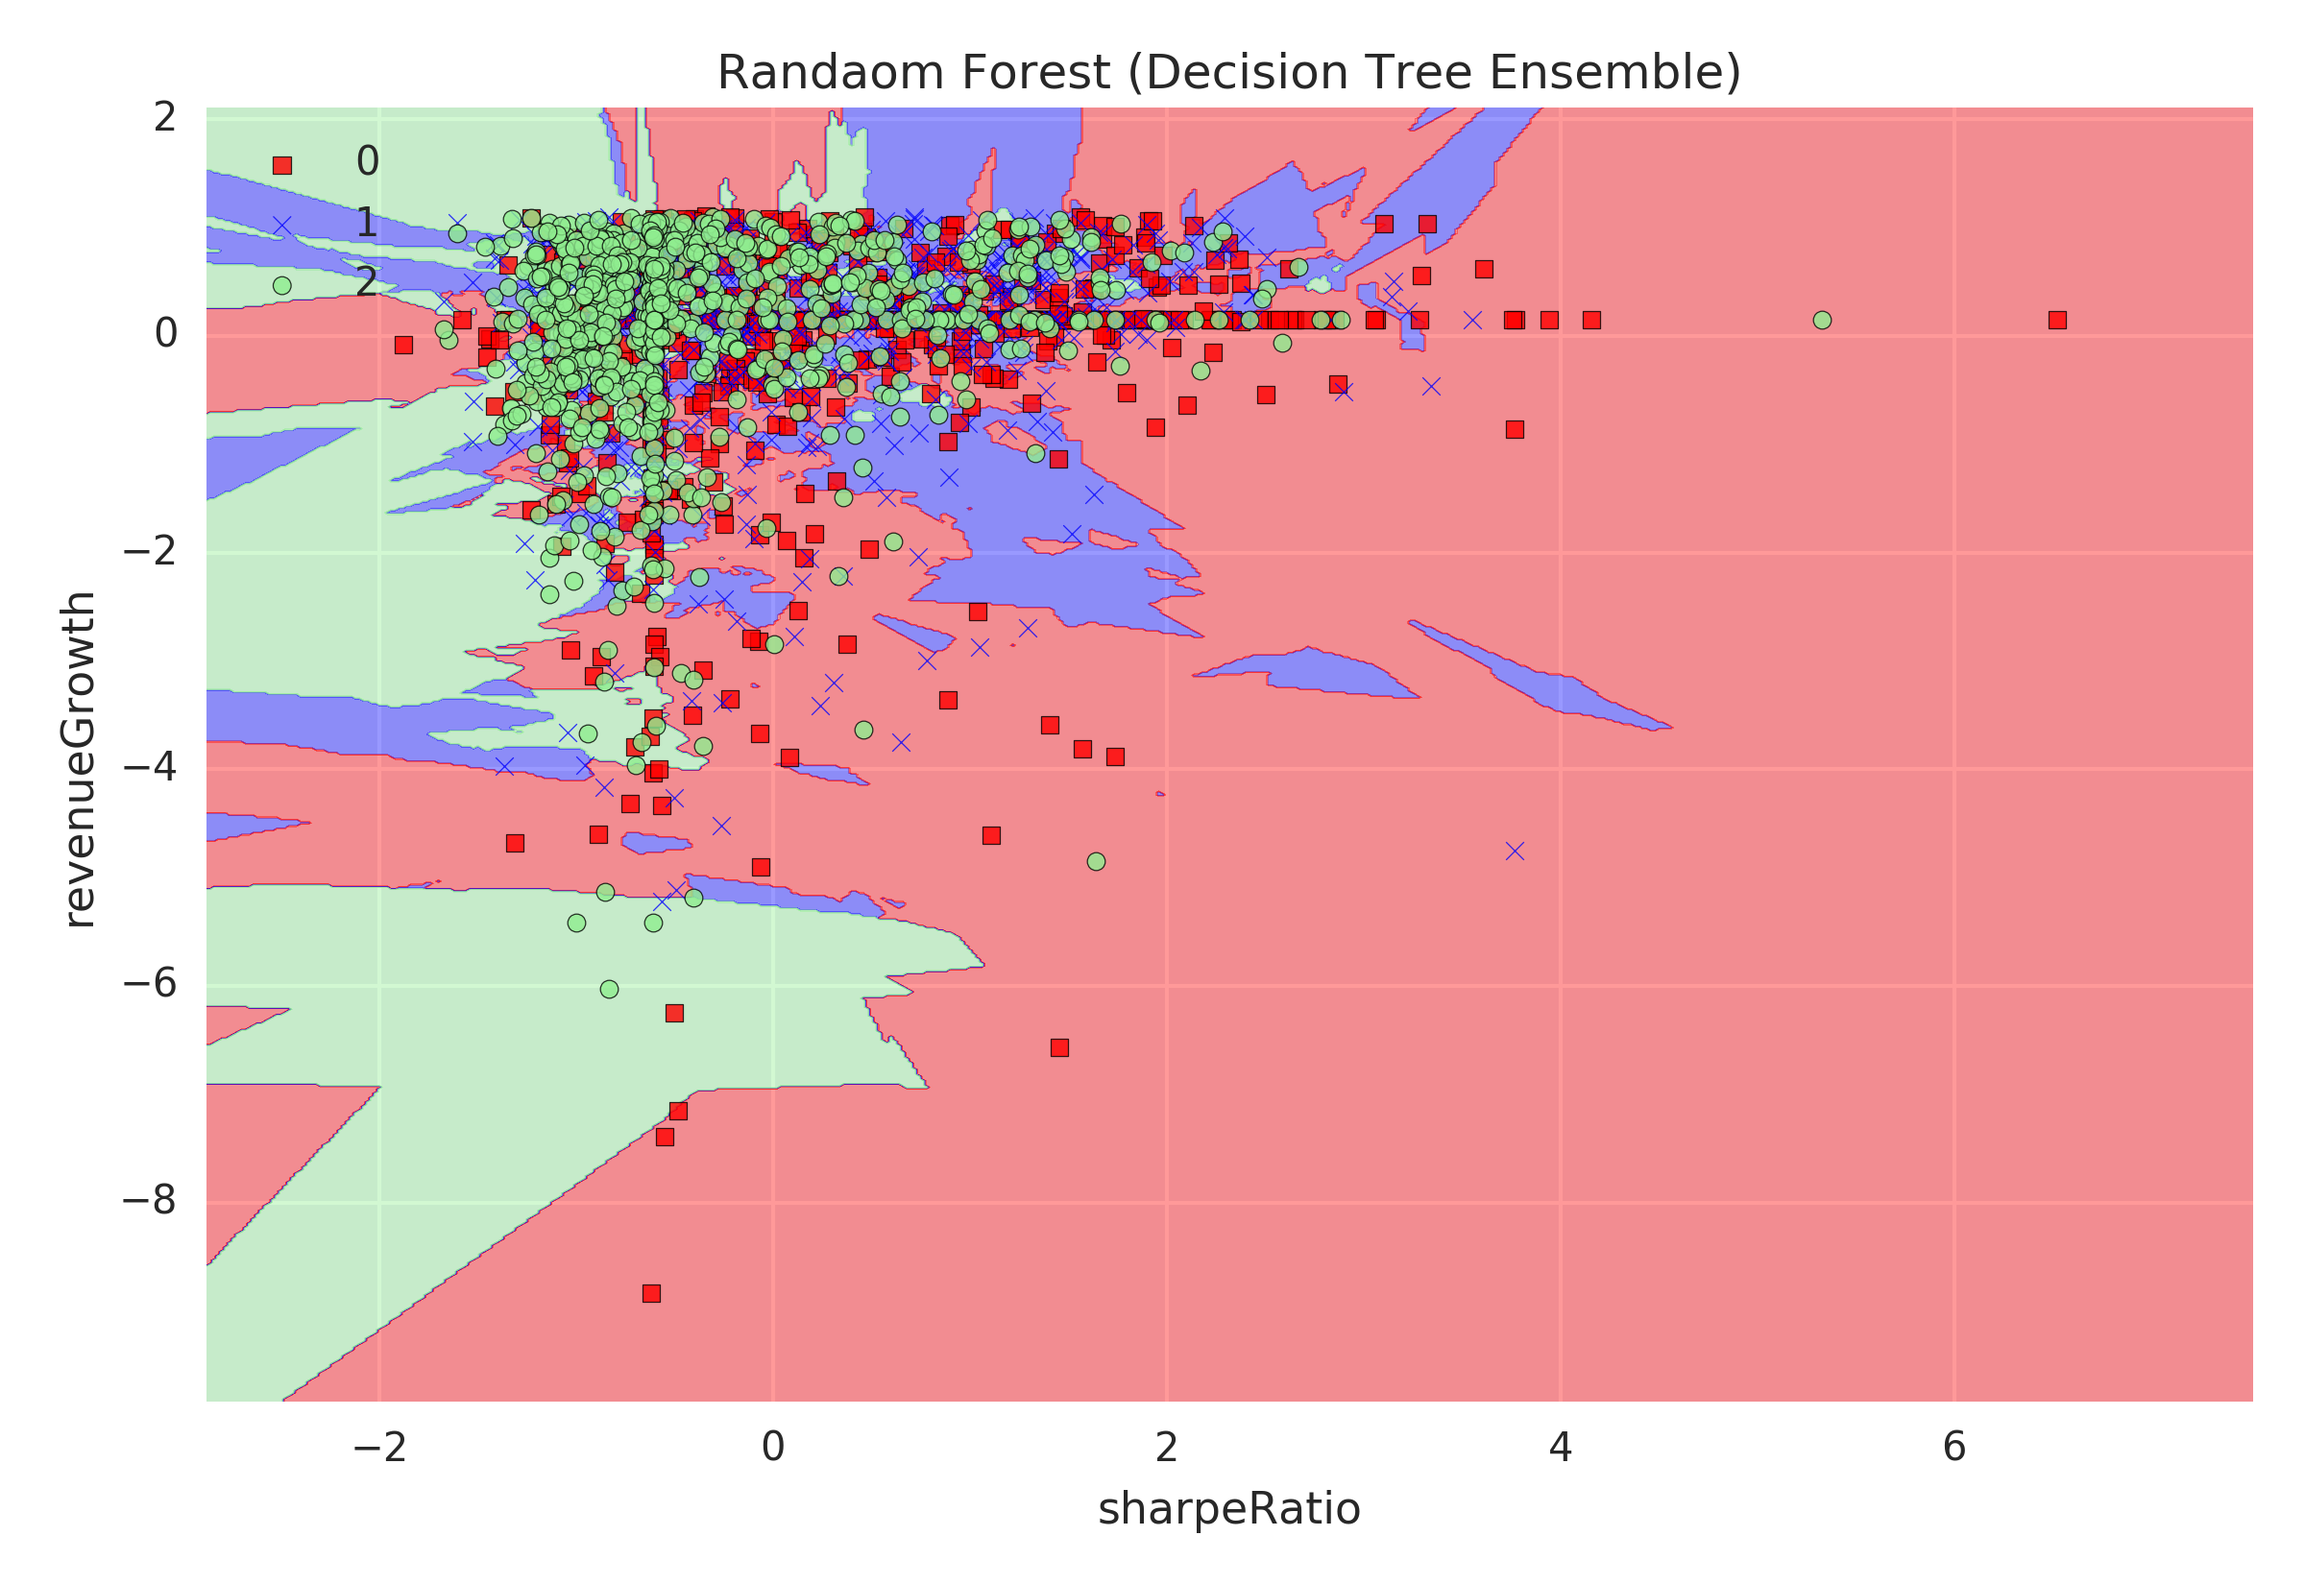
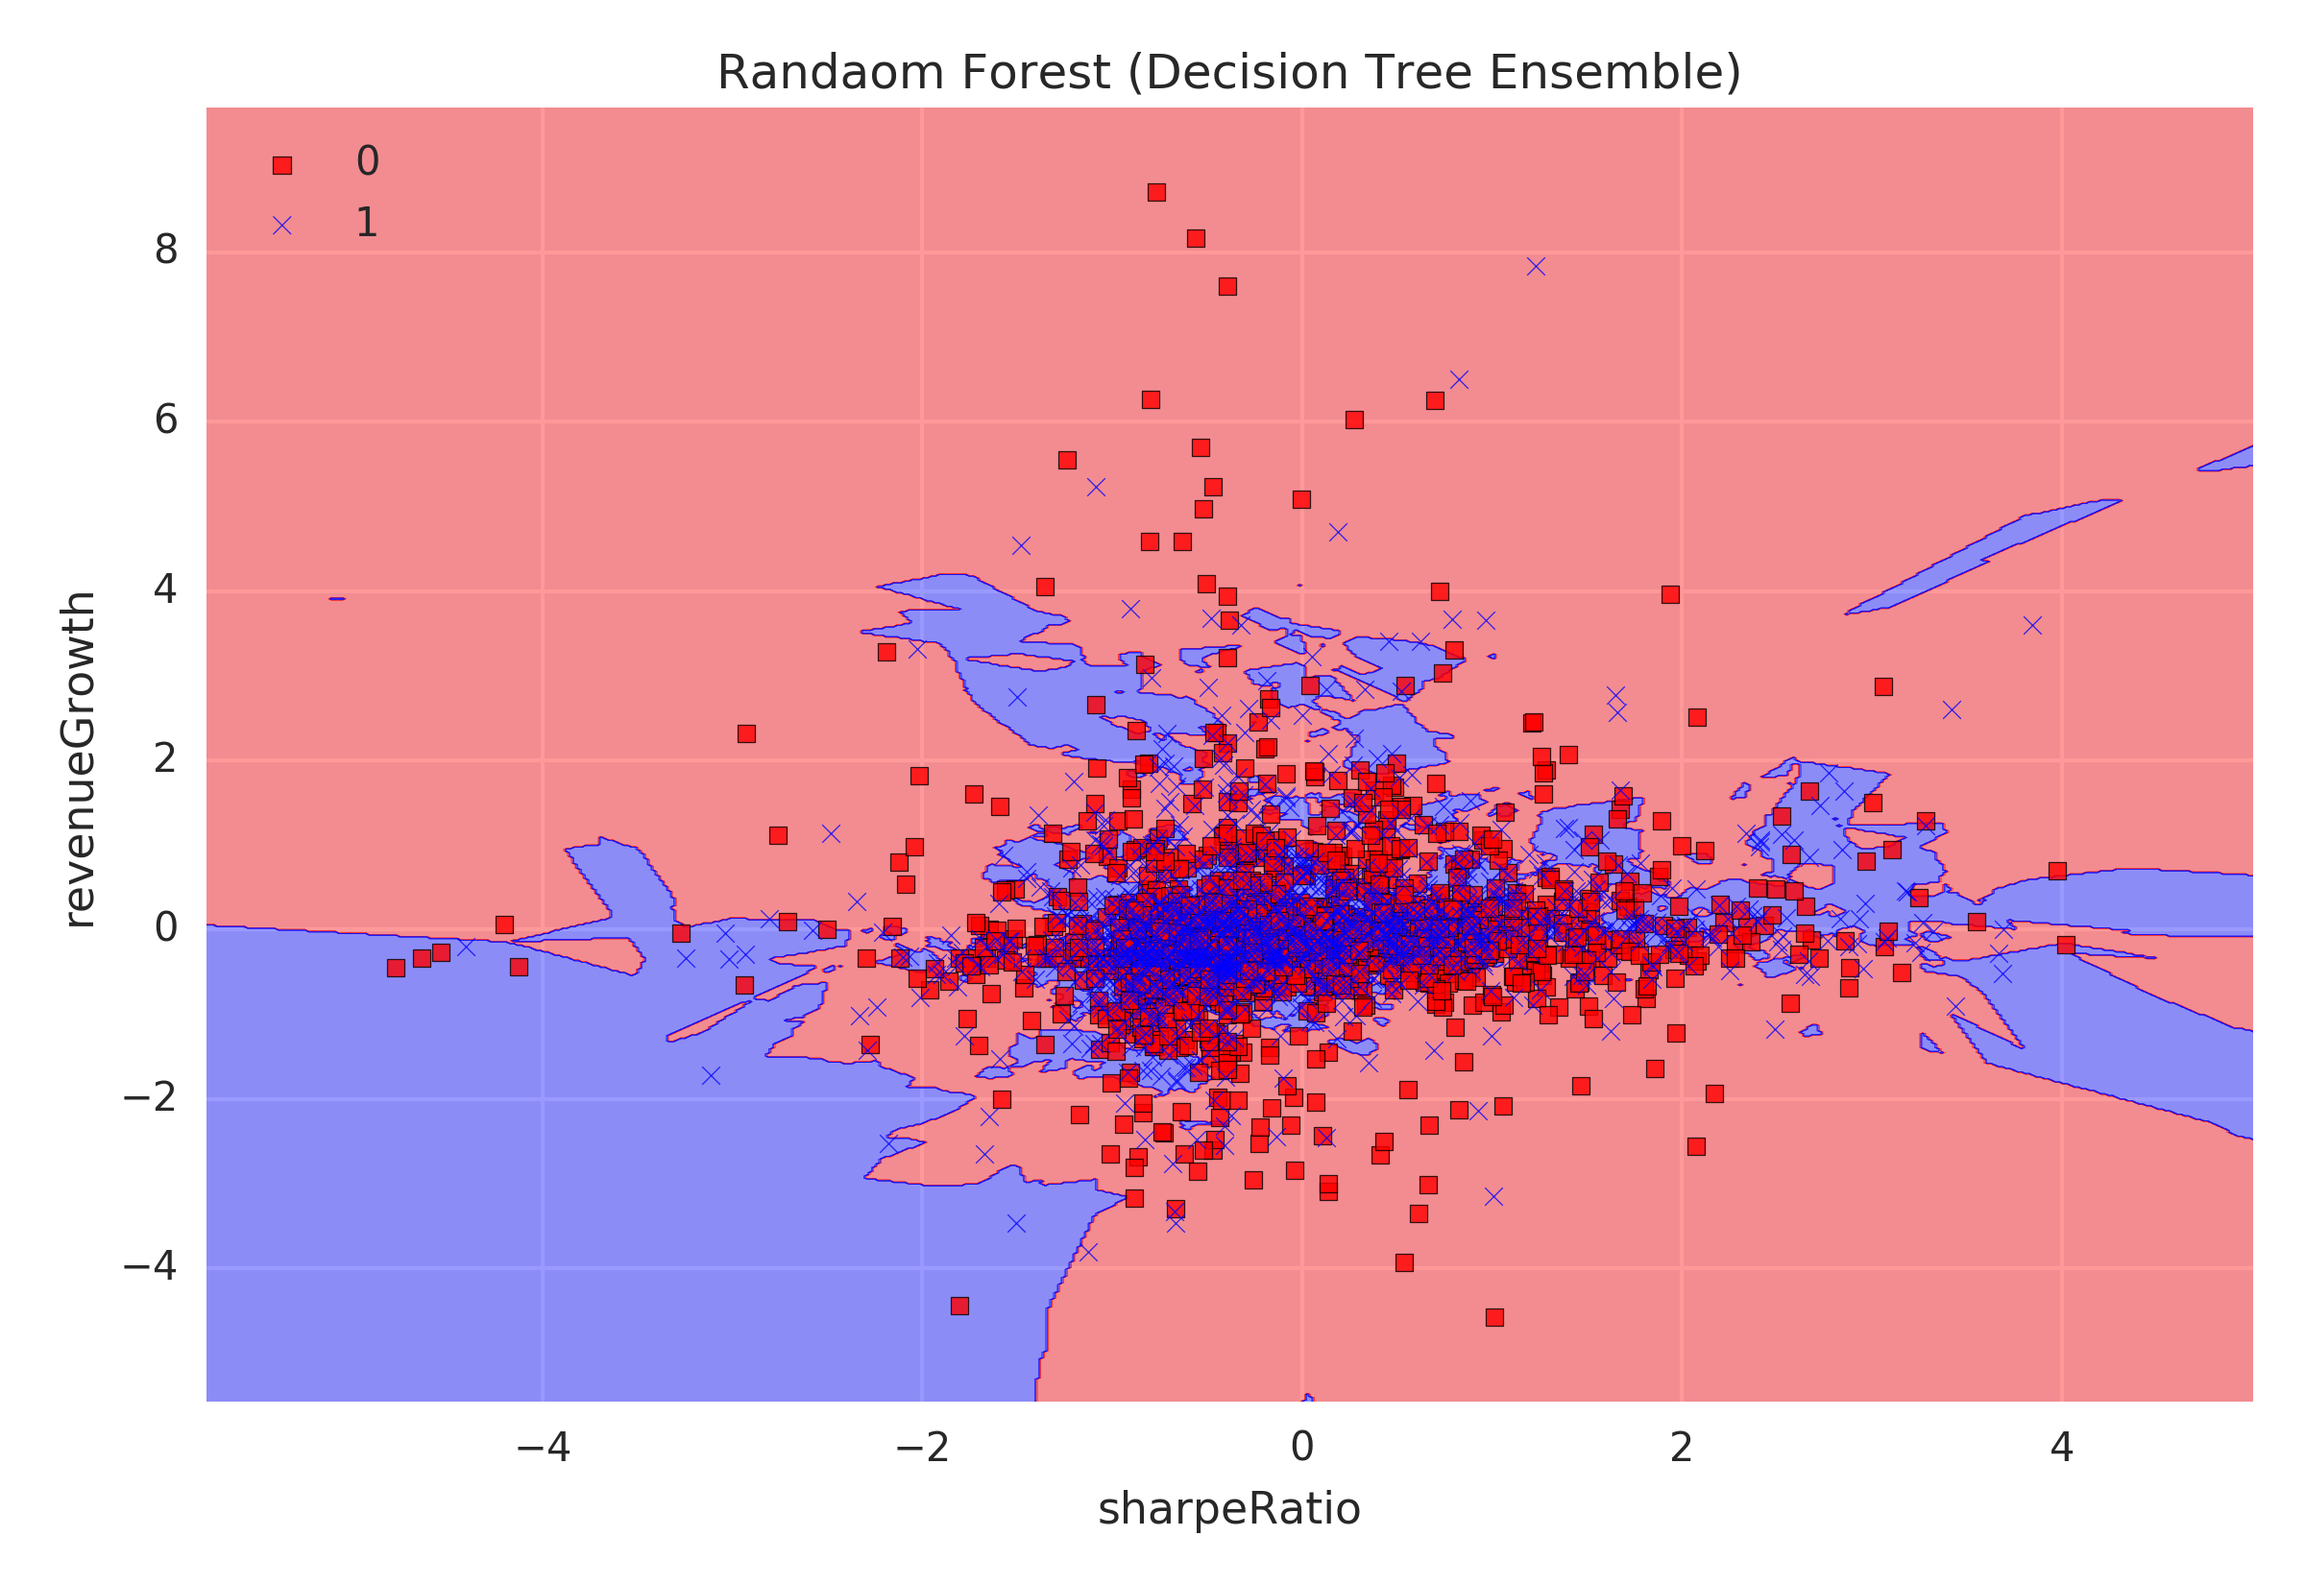
gonna run thru the algos

diff --git a/data_grab/morningstar_dg.py b/data_grab/morningstar_dg.py
@@ -60,7 +60,6 @@ def getData(tickers=None):
                 makeAPICall(t)
                 success.append(t)
             except:
-                pdb.set_trace()
                 failure.append(t)
                 print("Failed " + t + "\t")
                 exc_type, exc_obj, exc_tb = sys.exc_info()
@@ -163,13 +162,15 @@ def addCustomColumns(df, market_upd=False):
     except:
         exc_type, exc_obj, exc_tb = sys.exc_info()
         print("Could not read time series data for {3}: {0}, {1}, {2}".format(exc_type, exc_tb.tb_lineno, exc_obj, df.index.get_level_values('ticker')[0]))
+        raise
         
     
     try:
         df = addBasicCustomCols(df, qr)
         df = addGrowthCustomCols(df, qr)
         df = addTimelineCustomCols(df, qr)
-    except:
+    except Exception as e:
+        pdb.set_trace()
         exc_type, exc_obj, exc_tb = sys.exc_info()
         print("Issue adding columns {3}: {0}, {1}, {2}".format(exc_type, exc_tb.tb_lineno, exc_obj, df.index.get_level_values('ticker')[0]))
         raise
@@ -212,17 +213,25 @@ def addTimelineCustomCols(df, qr, vol_window=252):
     df['200DayMvgAvg'] = ''
     df['mv_avg_for_vol'] = ''
     df['volatility'] = ''
+    df = df.reset_index().set_index(['date', 'month'])
     for ix, row in df.iterrows():
-        df.at[ix, 'last_day'] =  quotes[quotes['Date'] >= datetime.date(int(ix[1]),int(row.month),1)].iloc[0]['Date']
-        df.at[ix, '50DayMvgAvg'] =  float(quotes[quotes['Date'] == df.ix[ix].last_day]['mv_avg_50'])
-        df.at[ix, '200DayMvgAvg'] =  float(quotes[quotes['Date'] == df.ix[ix].last_day]['mv_avg_200'])
-        df.at[ix, 'mv_avg_for_vol'] =  float(quotes[quotes['Date'] == df.ix[ix].last_day]['mv_avg_for_vol'])
-        df.at[ix, 'volatility'] = float(quotes[quotes['Date'] == df.ix[ix].last_day]['vol_stdev']) / float(quotes[quotes['Date'] == df.ix[ix].last_day]['mv_avg_for_vol']) * 100
-
+        try:
+            df.at[ix, 'last_day'] =  quotes[quotes['Date'] >= datetime.date(int(ix[0]),int(ix[1]),1)].iloc[0]['Date']
+            df.at[ix, '50DayMvgAvg'] =  float(quotes[quotes['Date'] == df.ix[ix].last_day]['mv_avg_50'])
+            df.at[ix, '200DayMvgAvg'] =  float(quotes[quotes['Date'] == df.ix[ix].last_day]['mv_avg_200'])
+            df.at[ix, 'mv_avg_for_vol'] =  float(quotes[quotes['Date'] == df.ix[ix].last_day]['mv_avg_for_vol'])
+            df.at[ix, 'volatility'] = float(quotes[quotes['Date'] == df.ix[ix].last_day]['vol_stdev']) / float(quotes[quotes['Date'] == df.ix[ix].last_day]['mv_avg_for_vol']) * 100
+        except Exception as e:
+            df.at[ix, 'last_day'] =  np.nan
+            df.at[ix, '50DayMvgAvg'] =  np.nan
+            df.at[ix, '200DayMvgAvg'] =  np.nan
+            df.at[ix, 'mv_avg_for_vol'] =  np.nan
+            df.at[ix, 'volatility'] = np.nan
+            print("May not have the quote data necessary for these calcs")
     
-    df['sharpeRatio'] = df['5yrReturn'] / df['volatility']                      
+    df['sharpeRatio'] = df['3yrReturn'] / df['volatility']                      
     df['downsideVol'] = downside_vol(df, qr, vol_window) / df['mv_avg_for_vol'] * 100 
-    df['sortinoRatio'] = df['5yrReturn'] / df['downsideVol']
+    df['sortinoRatio'] = df['3yrReturn'] / df['downsideVol']
     df = df.drop(['mv_avg_for_vol', 'last_day'], axis=1)
     return df
 
@@ -256,10 +265,14 @@ def downside_vol(df, qr, vol_window):
     qr['change'] = qr['Close'].pct_change(1)
     df['downsideVol'] = ''
     for ix, row in df.iterrows():
-        date_ix = qr[qr['Date'] == df.ix[ix].last_day].index.values[0]
-        start_ix = date_ix - vol_window if date_ix - vol_window > 0 else 0
-        q_wind = qr[start_ix : date_ix]
-        df.at[ix, 'downsideVol'] = q_wind[q_wind['change'] < 0]['Close'].std()
+        try:
+            date_ix = qr[qr['Date'] == df.ix[ix].last_day].index.values[0]
+            start_ix = date_ix - vol_window if date_ix - vol_window > 0 else 0
+            q_wind = qr[start_ix : date_ix]
+            df.at[ix, 'downsideVol'] = q_wind[q_wind['change'] < 0]['Close'].std()
+        except Exception as e:
+            df.at[ix, 'downsideVol'] = np.nan
+            print("May not have the quote data necessary for these calcs")
     return df['downsideVol']
 
 
@@ -364,5 +377,6 @@ def sendToDB(df):
 
 
 if __name__ == "__main__":
-    # getData(['MSFT'])
+    # getData(['YUM'])
+    # getData(['ATVI'])
     getData()

diff --git a/scripts/run_ml.py b/scripts/run_ml.py
@@ -52,26 +52,23 @@ def run(inputs):
     # Select features
     # feature_selection(df, inputs)
     
-    # K-Means Analysis
-    timeme(k_nearest_neighbors)(df, tuple(inputs), k=8)
+    # Feature Extraction
+    # feature_extraction(df, inputs)
     
-    
+    # Algorithms
     # timeme(logisticRegression)(df, tuple(inputs), C=1000, penalty='l1')
+    # timeme(k_nearest_neighbors)(df, tuple(inputs), k=8)
     # timeme(support_vector_machines)(df, tuple(inputs), C=1)
     # timeme(nonlinear_svm)(df, tuple(inputs), C=1)
     # timeme(decision_tree)(df, tuple(inputs), md=4)
     # timeme(random_forest)(df, tuple(inputs), estimators=3)
+    # timeme(adalinesgd)(df, tuple(inputs), estimators=3)
+    
+    # Model Evaluation
+    model_evaluation(df, inputs)
     
     
-    # timeme(principal_component_analysis)(df, tuple(inputs))
-    # timeme(pca_scikit)(df, tuple(inputs))
-    # timeme(linear_discriminant_analysis)(df, tuple(inputs))
-    # timeme(lda_scikit)(df, tuple(inputs))
-    # timeme(kfold_cross_validation)(df, tuple(inputs))
-    # timeme(learning_curves)(df, tuple(inputs))
-    # timeme(validation_curves)(df, tuple(inputs))
-    # timeme(grid_search_analysis)(df, tuple(inputs))
-    # timeme(precision_vs_recall)(df, tuple(inputs))
+    
     # timeme(majority_vote)(df, tuple(inputs))
     # timeme(bagging)(df, tuple(inputs))
     # timeme(adaboost)(df, tuple(inputs))
@@ -95,6 +92,22 @@ def feature_selection(df, inputs):
     
     # Random Forest Feature Selection - using a random forest to identify which factors decrease impurity the most
     timeme(random_forest_feature_importance)(df, tuple(inputs))
+
+
+def feature_extraction(df, inputs):
+    # Transforms the data - can be used to linearly separate data thru dimensionality reduction
+    timeme(principal_component_analysis)(df, tuple(inputs))
+    # timeme(pca_scikit)(df, tuple(inputs))
+    # timeme(linear_discriminant_analysis)(df, tuple(inputs))
+    # timeme(lda_scikit)(df, tuple(inputs))
+
+
+def model_evaluation(df, inputs):
+    timeme(kfold_cross_validation)(df, tuple(inputs))
+    # timeme(learning_curves)(df, tuple(inputs))
+    # timeme(validation_curves)(df, tuple(inputs))
+    # timeme(grid_search_analysis)(df, tuple(inputs))
+    # timeme(precision_vs_recall)(df, tuple(inputs))
     
 
 def separateTrainTest(df):
@@ -110,7 +123,7 @@ def selectInputs(df, inputs):
 
 
 def addTarget(df, tgt):
-    num_of_breaks = 3
+    num_of_breaks = 2
     df['target_proxy'] = df[tgt]
     df = df.dropna(subset = ['target_proxy'])
     df = df[df['target_proxy'] != 0]
@@ -152,7 +165,8 @@ def cleanData(df):
     
     # To filter out outliers
     # df = df[df['capExToSales'] < 10]
-    df = df[df['revenueGrowth'] < 10]
+    df = df[abs(df['revenueGrowth']) < 200]
+    df = df[abs(df['sharpeRatio']) < 10]
     
     # Temp for training purposes
     # df = df[abs(df['trailingPE']) < 30]

diff --git a/scripts/model_evaluation.py b/scripts/model_evaluation.py
@@ -19,26 +19,24 @@ from sklearn.linear_model import LogisticRegression
 from sklearn.tree import DecisionTreeClassifier
 from sklearn.svm import SVC
 from sklearn.metrics import confusion_matrix, precision_score, recall_score, f1_score, make_scorer, roc_curve, auc, roc_auc_score, accuracy_score
-
 from utils.ml_utils import plot_decision_regions, standardize, IMG_PATH
 
+
 def kfold_cross_validation(df, xcols, folds=10):
+    pdb.set_trace()
     y = df['target']
     X = df[list(xcols)]
     
     # Standardize and split the training nad test data
     X_std = standardize(X)
     ts = 0.3
-    X_train, X_test, y_train, y_test = \
-          train_test_split(X_std, y, test_size=ts, random_state=0)
+    X_train, X_test, y_train, y_test = train_test_split(X_std, y, test_size=ts, random_state=0)
     
     pipe_lr = Pipeline([('scl', StandardScaler()),
             ('pca', PCA(n_components=2)),
             ('clf', LogisticRegression(random_state=1))])
 
-    kfold = StratifiedKFold(y=y_train, 
-                            n_folds=folds,
-                            random_state=1)
+    kfold = StratifiedKFold(y=y_train, n_folds=folds, random_state=1)
     
     scores = []
     for k, (train, test) in enumerate(kfold):
@@ -48,11 +46,7 @@ def kfold_cross_validation(df, xcols, folds=10):
         print('Fold: %s, Class dist.: %s, Acc: %.3f' % (k+1, np.bincount(y_train.values[train]), score))
     print('\nCV accuracy: %.3f +/- %.3f' % (np.mean(scores), np.std(scores)))
 
-    scores = cross_val_score(estimator=pipe_lr, 
-                             X=X_train, 
-                             y=y_train.values, 
-                             cv=10,
-                             n_jobs=1)
+    scores = cross_val_score(estimator=pipe_lr, X=X_train, y=y_train.values, cv=10, n_jobs=1)
     print('CV accuracy scores: %s' % scores)
     print('CV accuracy: %.3f +/- %.3f' % (np.mean(scores), np.std(scores)))
     

diff --git a/scripts/feature_selection.py b/scripts/feature_selection.py
@@ -147,8 +147,7 @@ def pca_scikit(df, xcols):
     # Standardize and split the training nad test data
     X_std = standardize(X)
     ts = 0.3
-    X_train, X_test, y_train, y_test = \
-          train_test_split(X_std, y, test_size=ts, random_state=0)
+    X_train, X_test, y_train, y_test = train_test_split(X_std, y, test_size=ts, random_state=0)
     
     pca = PCA(n_components=2)
     lr = LogisticRegression()
